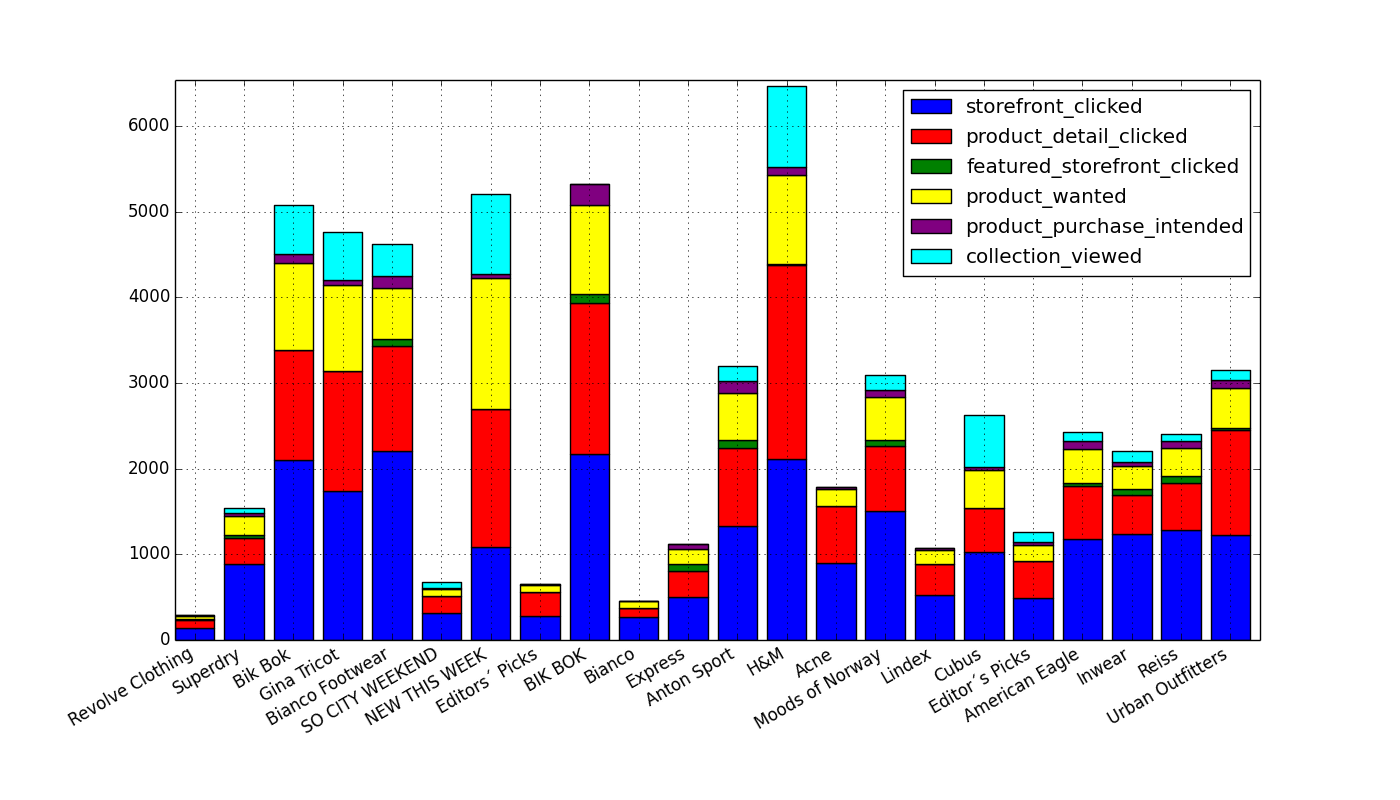
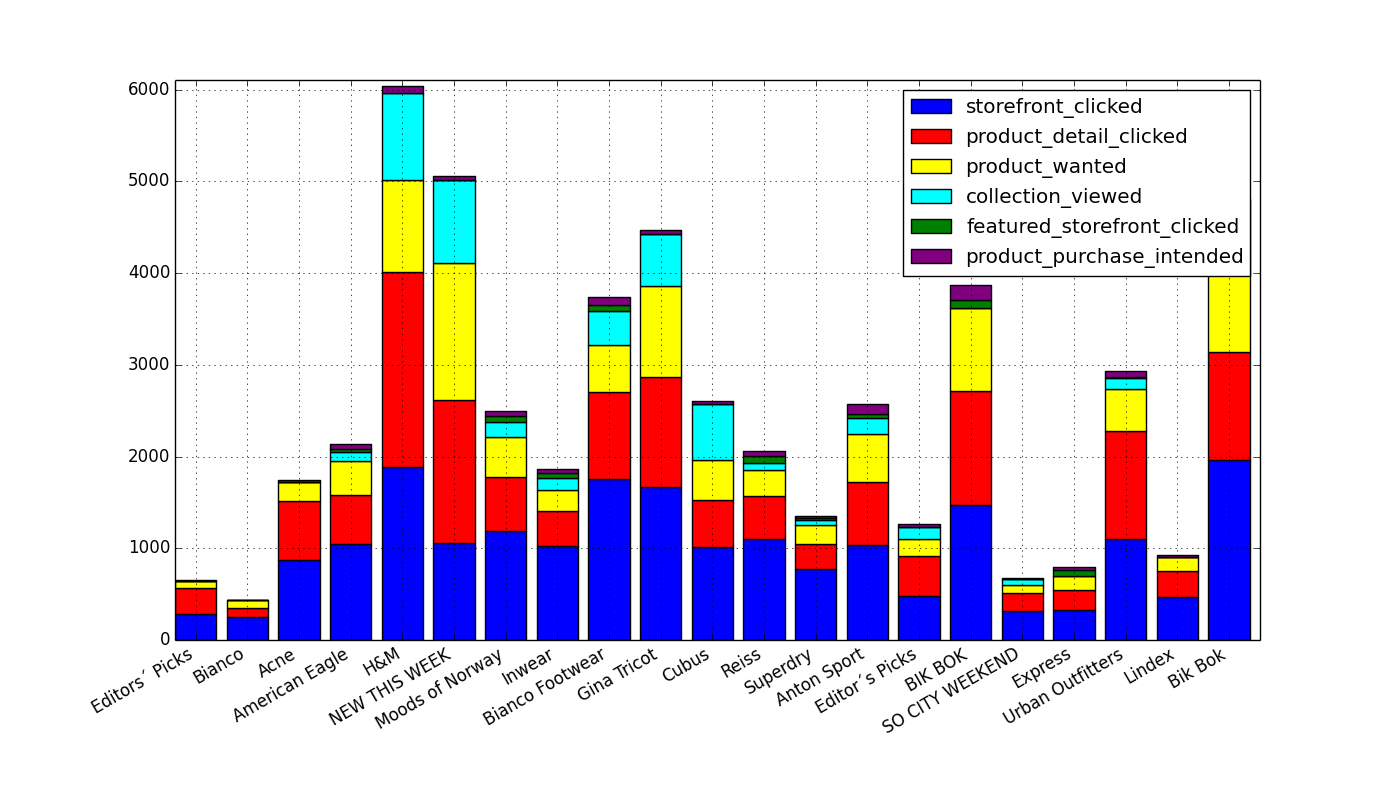
added new numbers

diff --git a/src/masterChapters/02-soBazarData.tex b/src/masterChapters/02-soBazarData.tex
@@ -186,26 +186,26 @@ table below.
             \toprule
             Attribute       & Count   \\
             \midrule
-            Total number of product events &    40773 \\
-            Unique users ids    &    2021 \\
-            Unique item ids     &    6092 \\
-            Unique storefronts  &    147~\tablefootnote{A storefront is a access point, with different clusterings of items. Stores can have multiple storefronts} \\
-            Unique retailer brands  &    24 \\
+            Total number of product events  &    35324 \\
+            Unique users ids    &    2014 \\
+            Unique item ids     &    5688 \\
+            Unique storefronts  &    144~\tablefootnote{A storefront is a access point, with different clusterings of items. Stores can have multiple storefronts} \\
+            Unique retailer brands   &    22 \\
             \hline
-            Item clicks     &    25491 \\
-            Item wants   &    13262 \\
-            Item purchases   &    2020 \\
+            Item clicks     &    21400 \\
+            Item wants  &    12436 \\
+            Item purchases  &    1488 \\
             \hline
             First event & Mon, 07 Oct 2013 10:59:57 GMT \\
             Last event & Mon, 19 May 2014 22:51:19 GMT \\
             Lifetime of data & 224 days \\
             \hline
-            Average item click count per user   &    12.6130 \\
-            Average item want count per user     &    6.5620 \\
-            Average item purchase count per user     &    0.9995 \\
+            Average item click count per user   &    10.625620655412115 \\
+            Average item want count per user     &    6.174776564051639 \\
+            Average item purchase count per user     &    0.7388282025819265 \\
             \hline
-            Average item interaction count per user     &    20.1746 \\
-            Average user interaction count per item     &    6.6928 \\
+            Average item interaction count per user     &    17.53922542204568 \\
+            Average user interaction count per item     &    6.210267229254571 \\
             \bottomrule
         \caption[Dataset summary]{Overview of the key figures in the SoBazaar dataset}
         \label{table:datasetSummary}

diff --git a/src/masterChapters/03-stateOfTheArt/fashion-recommendation.tex b/src/masterChapters/03-stateOfTheArt/fashion-recommendation.tex
@@ -241,12 +241,7 @@ hence increase the conversion rate.
 
 When making a purchase in the SoBazaar application, the user is redirected to the retailer selling the item, so the purchase is not done in the application.
 This can lead to a higher \emph{purchase count} than the actual truth, but is what can be considered the conversion in the SoBazaar application.
-
-For SoBazaar there are todo sessions in total and todo purchases, so the conversion rate is $todo = \frac{todo}{todo}$, which is quite high compared to the conversion rate in women fashion from figure~\ref{fig:conversionRateFashion}.
-
-This is mainly because it is not possible to do a purchase in the SoBazaar application, the user is instead redirected to the retailer where the currently watched item is sold, and the user can purchase the item there.
-This will naturally lead to some non completed purchases, but
-
+For SoBazaar there are todo sessions in total and todo purchases, so the conversion rate is $todo = \frac{todo}{todo}$, which is quite high compared to the conversion rate in women fashion from figure~\ref{fig:conversionRateFashion}, which was expected, since it is no commitment to making a purchase in the SoBazaar application.
 
 \begin{figure}[H]
   \begin{tabular}{cc}
